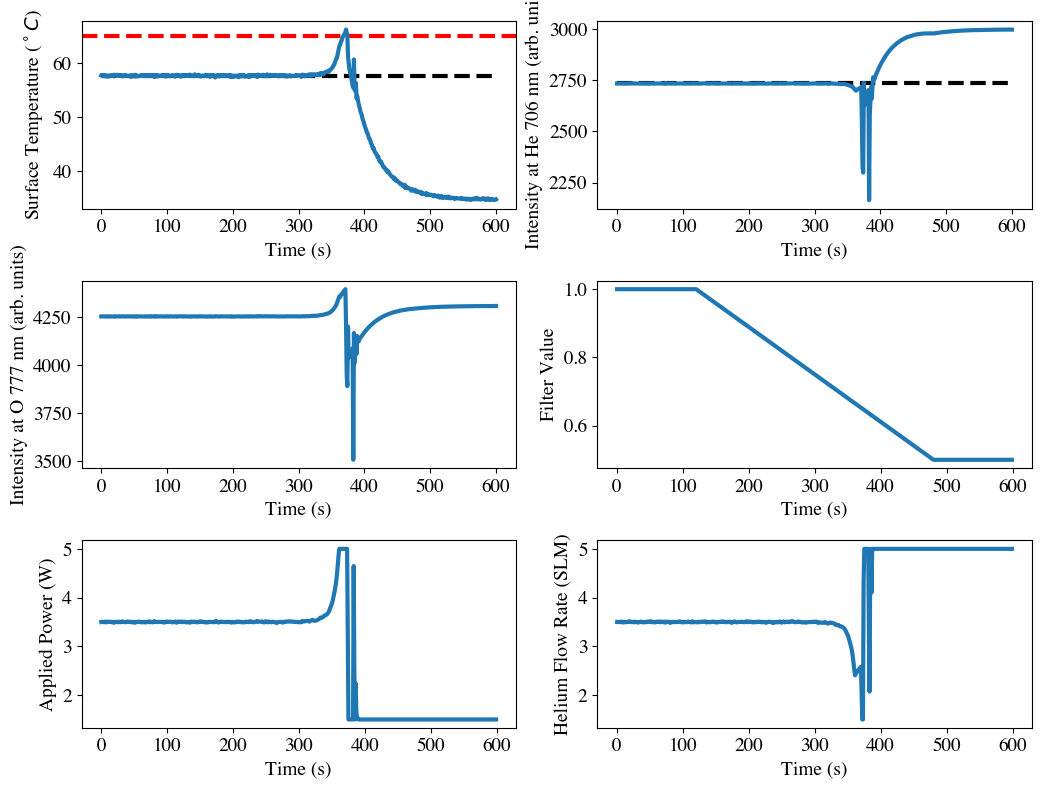
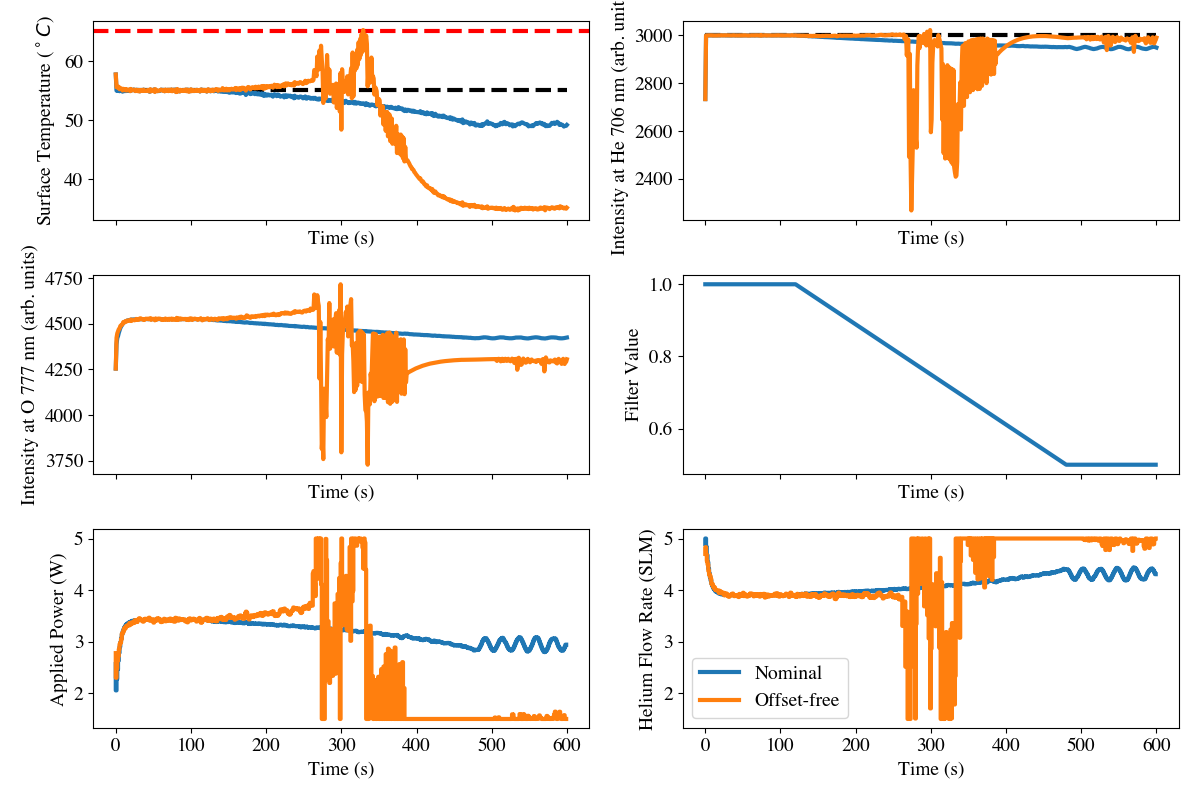
visualization updates

diff --git a/OffsetFreeFilter/run_sim.py b/OffsetFreeFilter/run_sim.py
@@ -99,11 +99,11 @@ axes[1,1].plot(np.arange(len(fval))*ts, fval)
 axes[1,1].set_xlabel('Time (s)')
 axes[1,1].set_ylabel('Filter Value')
 
-axes[2,0].plot(np.arange(len(Pplot))*ts, Pplot, label='Nominal')
+axes[2,0].step(np.arange(len(Pplot))*ts, Pplot, label='Nominal')
 axes[2,0].set_xlabel('Time (s)')
 axes[2,0].set_ylabel('Applied Power (W)')
 
-axes[2,1].plot(np.arange(len(qplot))*ts, qplot, label='Nominal')
+axes[2,1].step(np.arange(len(qplot))*ts, qplot, label='Nominal')
 axes[2,1].set_xlabel('Time (s)')
 axes[2,1].set_ylabel('Helium Flow Rate (SLM)')
 
@@ -164,9 +164,9 @@ axes[0,1].plot(np.arange(len(I706))*ts, I706, label='Offset-free')
 
 axes[1,0].plot(np.arange(len(I777))*ts, I777, label='Offset-free')
 
-axes[2,0].plot(np.arange(len(Pplot))*ts, Pplot, label='Offset-free')
+axes[2,0].step(np.arange(len(Pplot))*ts, Pplot, label='Offset-free')
 
-axes[2,1].plot(np.arange(len(qplot))*ts, qplot, label='Offset-free')
+axes[2,1].step(np.arange(len(qplot))*ts, qplot, label='Offset-free')
 axes[2,1].legend()
 plt.tight_layout()
 plt.draw()

diff --git a/OffsetFreeFilter/save4sysID.py b/OffsetFreeFilter/save4sysID.py
@@ -4,6 +4,7 @@ import numpy as np
 import matplotlib.pyplot as plt
 from scipy.io import savemat
 
+save_file = False
 filepath = './ExperimentalData/2023_08_21_17h31m03s/Backup/OL_data_0.npy'
 timestamp = filepath[19:39]
 print(timestamp)
@@ -92,6 +93,7 @@ axes[1].plot(u.T)
 axes[1].set_title('Inputs')
 plt.tight_layout()
 
-savemat(f'./models/{timestamp}_APPJ_model_train_data.mat', processing_info)
+if save_file:
+    savemat(f'./models/{timestamp}_APPJ_model_train_data.mat', processing_info)
 
 plt.show()
